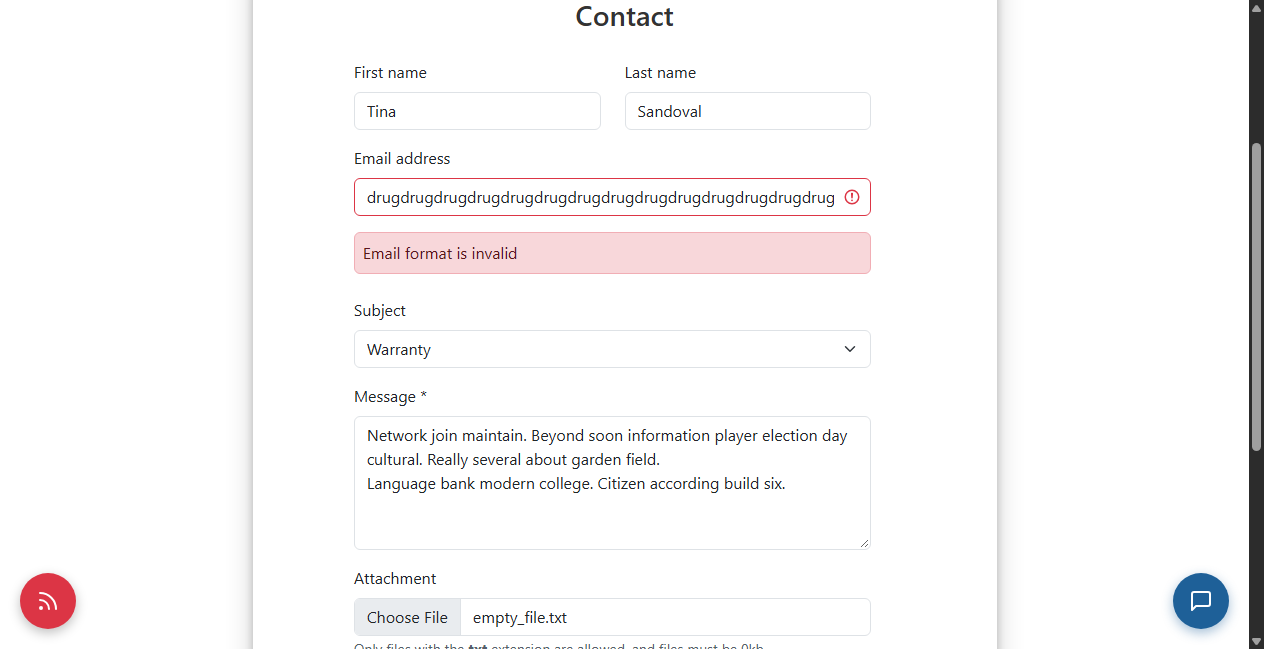
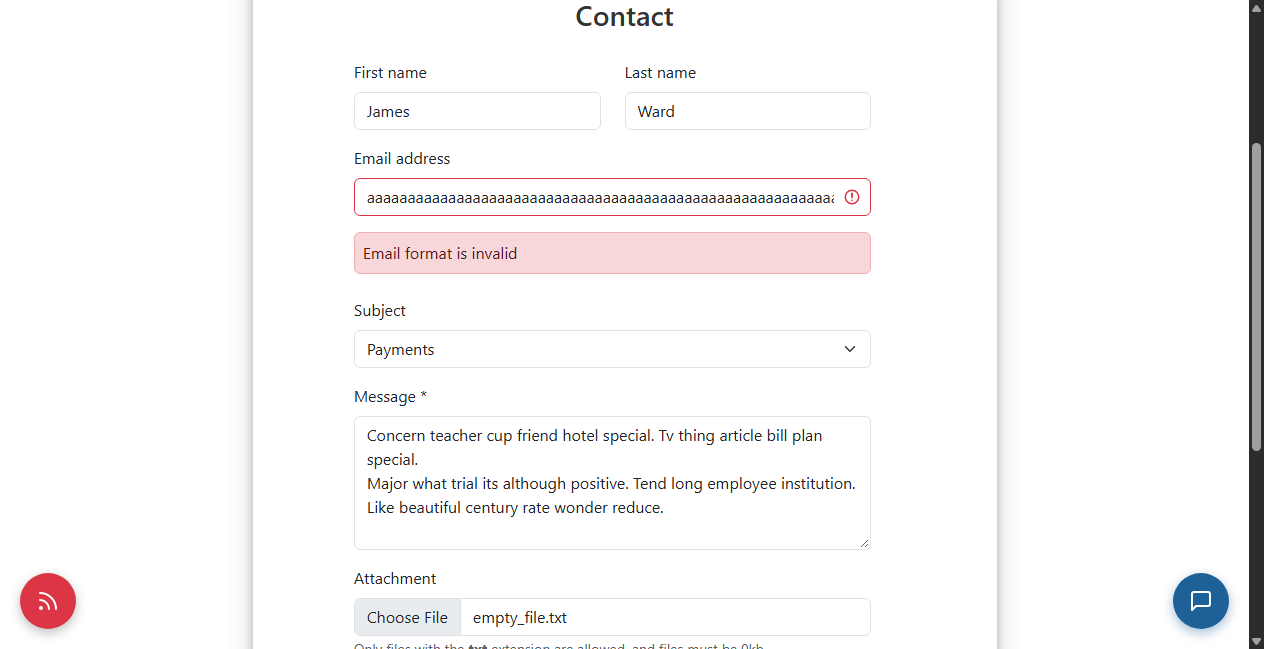
Fixing tests

diff --git a/tests/test_login_page.py b/tests/test_login_page.py
@@ -10,8 +10,8 @@ dotenv.load_dotenv()
 def test_successful_login_as_user_forwards_to_user_profile(login_page, components):
     login_page.load()
     login_page.login_as_user()
-    current_user = components.get_current_user()
-    assert current_user == " Bob Smith "
+    current_user = components.get_navbar_username()
+    assert current_user == "Bob Smith"
     current_url = components.get_current_url()
     assert current_url.endswith("/account"), \
         f"Expected user to be forwarded to /account upon login, but the current url is {current_url} "
@@ -21,7 +21,7 @@ def test_successful_login_as_user_forwards_to_user_profile(login_page, component
 def test_successful_login_as_admin_forwards_to_admin_dashboard(login_page, components):
     login_page.load()
     login_page.login_as_admin()
-    current_user = components.get_current_user()
+    current_user = components.get_navbar_username()
     assert current_user == "John Doe"
     current_url = components.get_current_url()
     assert current_url.endswith("/admin/dashboard"), \
@@ -41,14 +41,14 @@ def test_login_with_incorrect_password_displays_a_correct_error(login_page):
 
 # I don't know the amount of attempts needed, temporary values, to investigate later
 def test_login_with_incorrect_password_locks_account_out(login_page):
-    number_of_attempts = 4
+    number_of_attempts = 5
     for current_attempt in range(number_of_attempts):
         login_page.load()
         login_page.input_email_address(os.getenv("USER_EMAIL"))
         login_page.input_password(faker.password())
         login_page.press_login_button()
         assert login_page.get_login_error_message() == "Invalid email or password"
-        if current_attempt == 4:
+        if current_attempt == 5:
             assert login_page.get_login_error_message() == "Account locked, too many failed attempts. Please contact the administrator."
 
 
@@ -76,6 +76,7 @@ def test_login_without_email_and_no_password_displays_both_messages(login_page):
 def test_user_gets_a_hint_when_password_is_shorter_than_2_symbols(login_page):
     login_page.load()
     login_page.input_email_address(faker.email())
+    login_page.input_email_address("ab")
     login_page.press_login_button()
     assert login_page.get_password_error_message() == "Password length is invalid"
 

diff --git a/pages/base_page.py b/pages/base_page.py
@@ -40,7 +40,10 @@ class BasePage:
         self.set_item_in_session_storage('compare_ids', json.dumps(ids_list))
 
     def locate_element(self, locator: tuple[str,str]) -> WebElement:
-        return self.wait.until(EC.visibility_of_element_located(locator))
+        try:
+            return self.wait.until(EC.visibility_of_element_located(locator))
+        except TimeoutException:
+            raise AssertionError("Element couldn't be located within configured timeout")
 
 
     def locate_multiple_elements(self, locator: tuple[str,str]) -> list[WebElement]:
@@ -55,10 +58,6 @@ class BasePage:
     def click_by_web_element(self, element: WebElement):
         self.wait.until(EC.element_to_be_clickable(element)).click()
         return self
-    
-    
-    def click__element_from_multiple(self, element: WebElement):
-        self.wait.until(EC.element_to_be_clickable(element)).click()
 
 
     def fill_field(self, locator: tuple[str,str], text: str):
@@ -89,6 +88,7 @@ class BasePage:
         self.wait_for_element_visibility(locator)
         self.wait.until_not(EC.text_to_be_present_in_element(locator, ""))
         return self
+
 
     def is_element_visible(self, locator: tuple[str,str]):
         try:

diff --git a/tests/test_contact_page.py b/tests/test_contact_page.py
@@ -100,7 +100,7 @@ def test_invalid_email_address_is_rejected_when_sending_contact_message(contact_
 def test_long_email_address_are_rejected_when_sending_contact_message(contact_page):
     contact_page.load()
     contact_page.fill_all_contact_data(fields_to_exclude=["Email"])
-    contact_page.fill_email((100*fake.word()) + fake.email())
+    contact_page.fill_email((120*"a" + "@example.com"))
     contact_page.send_message()
 
     expected_message = "Email is too long"
